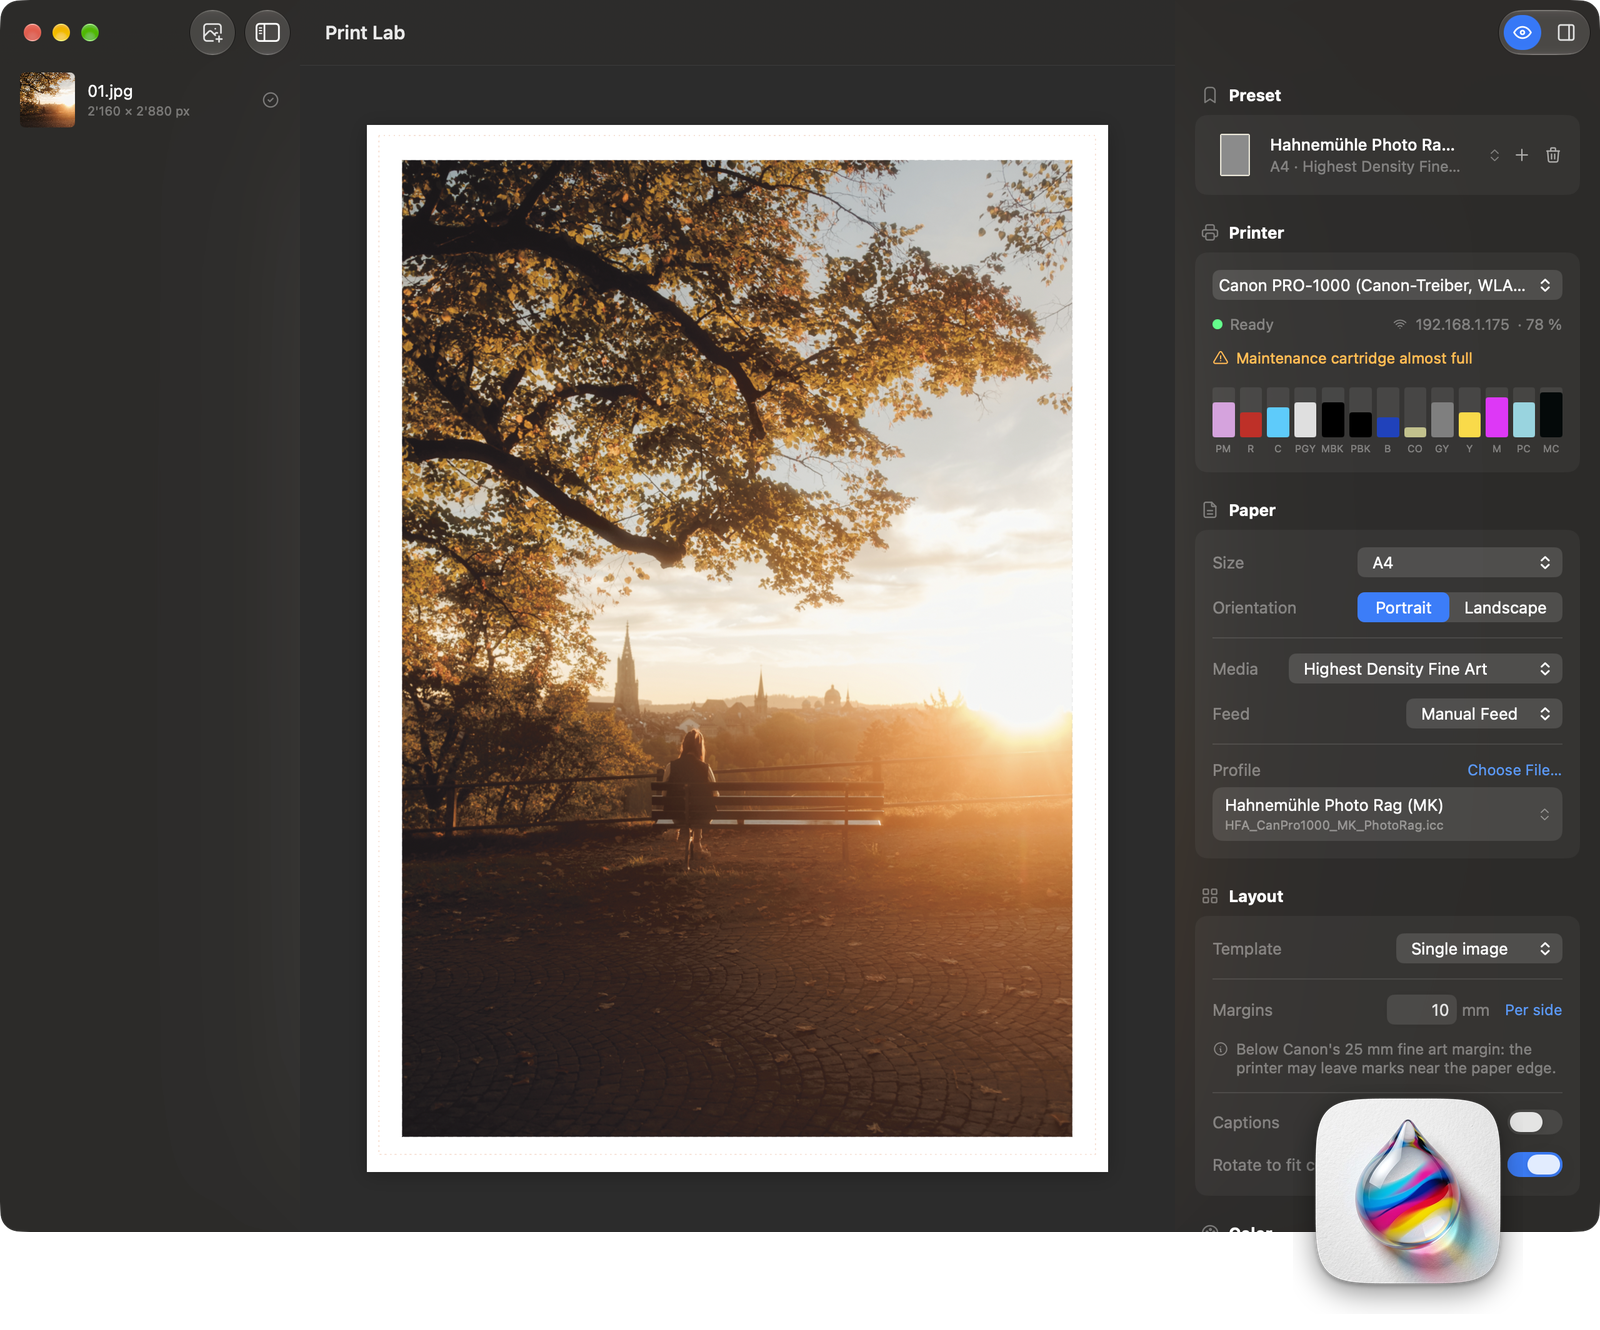
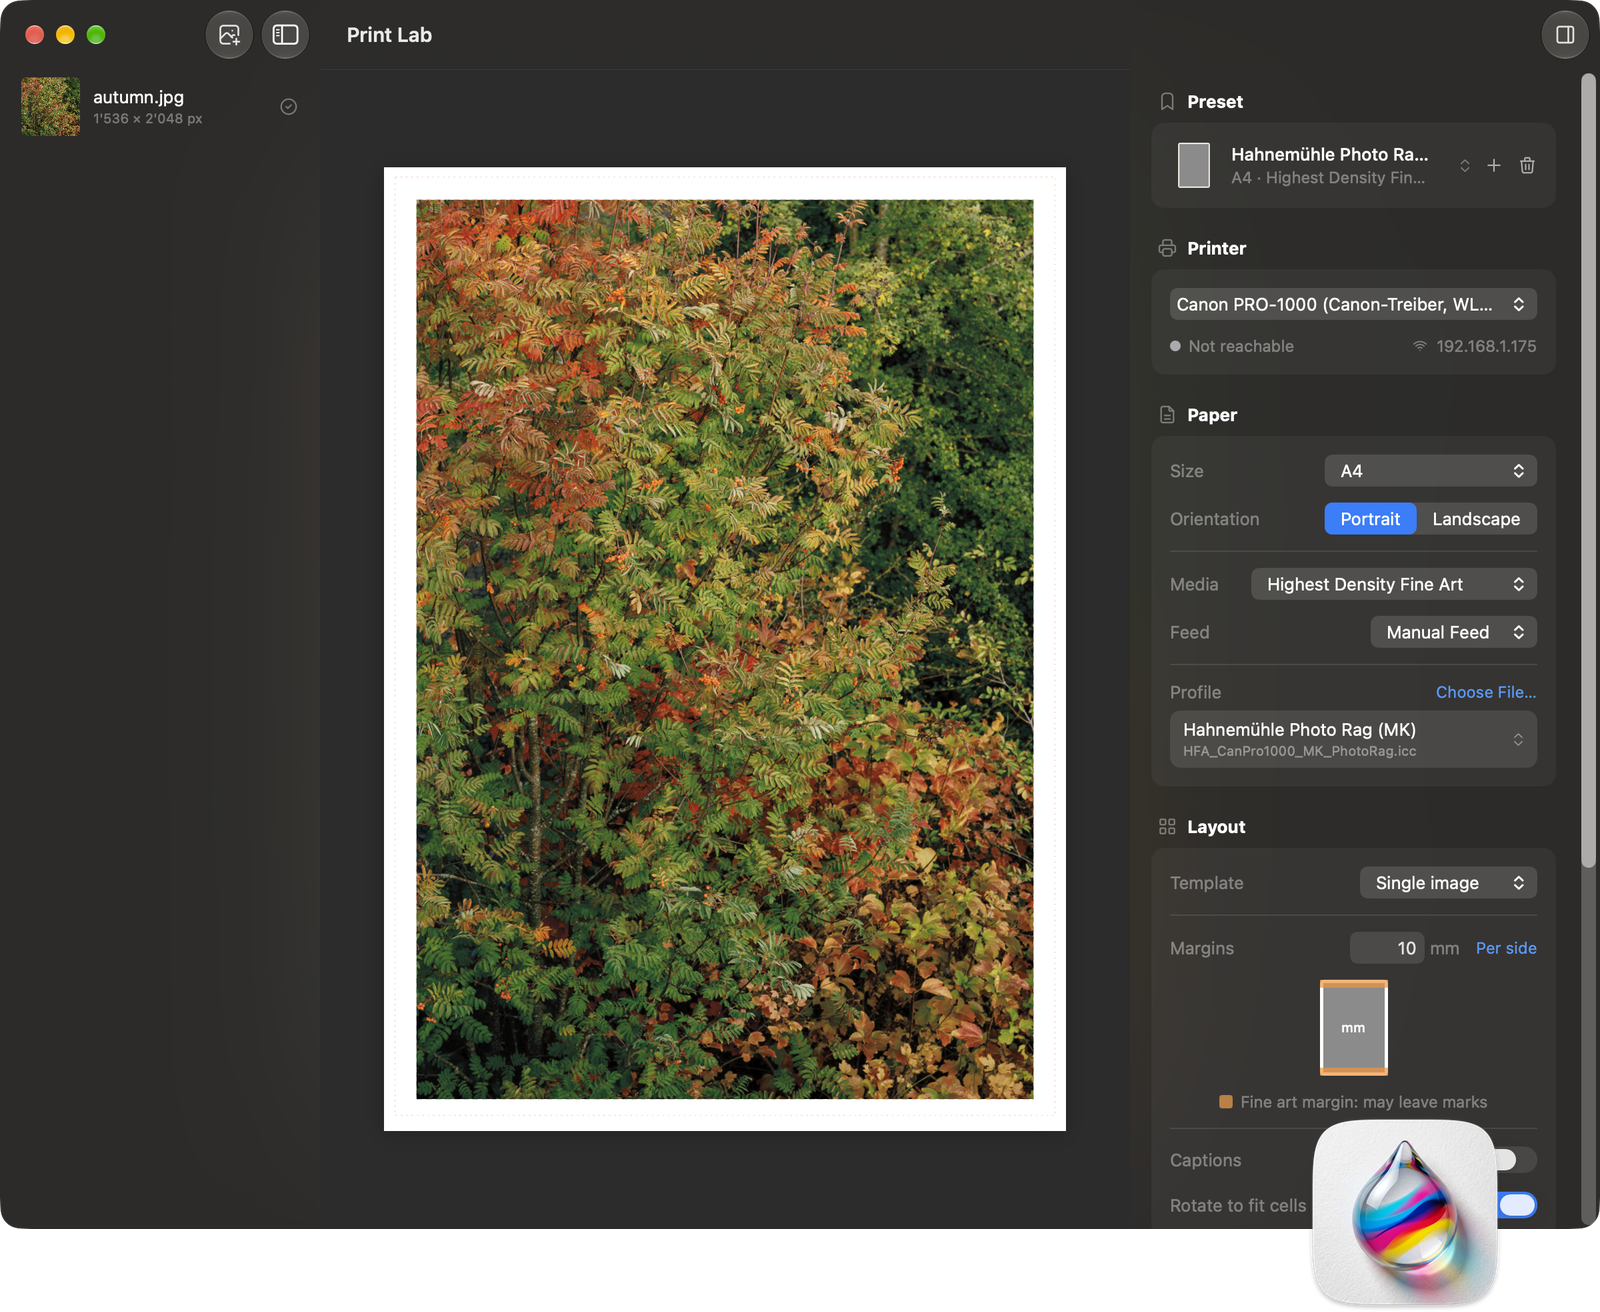
README screenshot: autumn photo on the current build (#5)

diff --git a/README.md b/README.md
@@ -2,7 +2,7 @@
 
 A macOS app for printing photos on Canon photo printers. An open alternative to Canon's Professional Print & Layout.
 
-![Print Lab with a sunset photo on A4 Hahnemühle Photo Rag](docs/screenshot.png)
+![Print Lab with an autumn photo on A4 Hahnemühle Photo Rag](docs/screenshot.png)
 
 - **Layouts:** one image per sheet, grids, contact sheets with captions. Drag to move the crop, drop images onto cells.
 - **Color:** 16-bit conversion into the paper profile, softproof with paper white. Pick the paper, Canon's or a paper maker's (e.g. Tecco, Hahnemühle), and the app sets its profile and media type.
